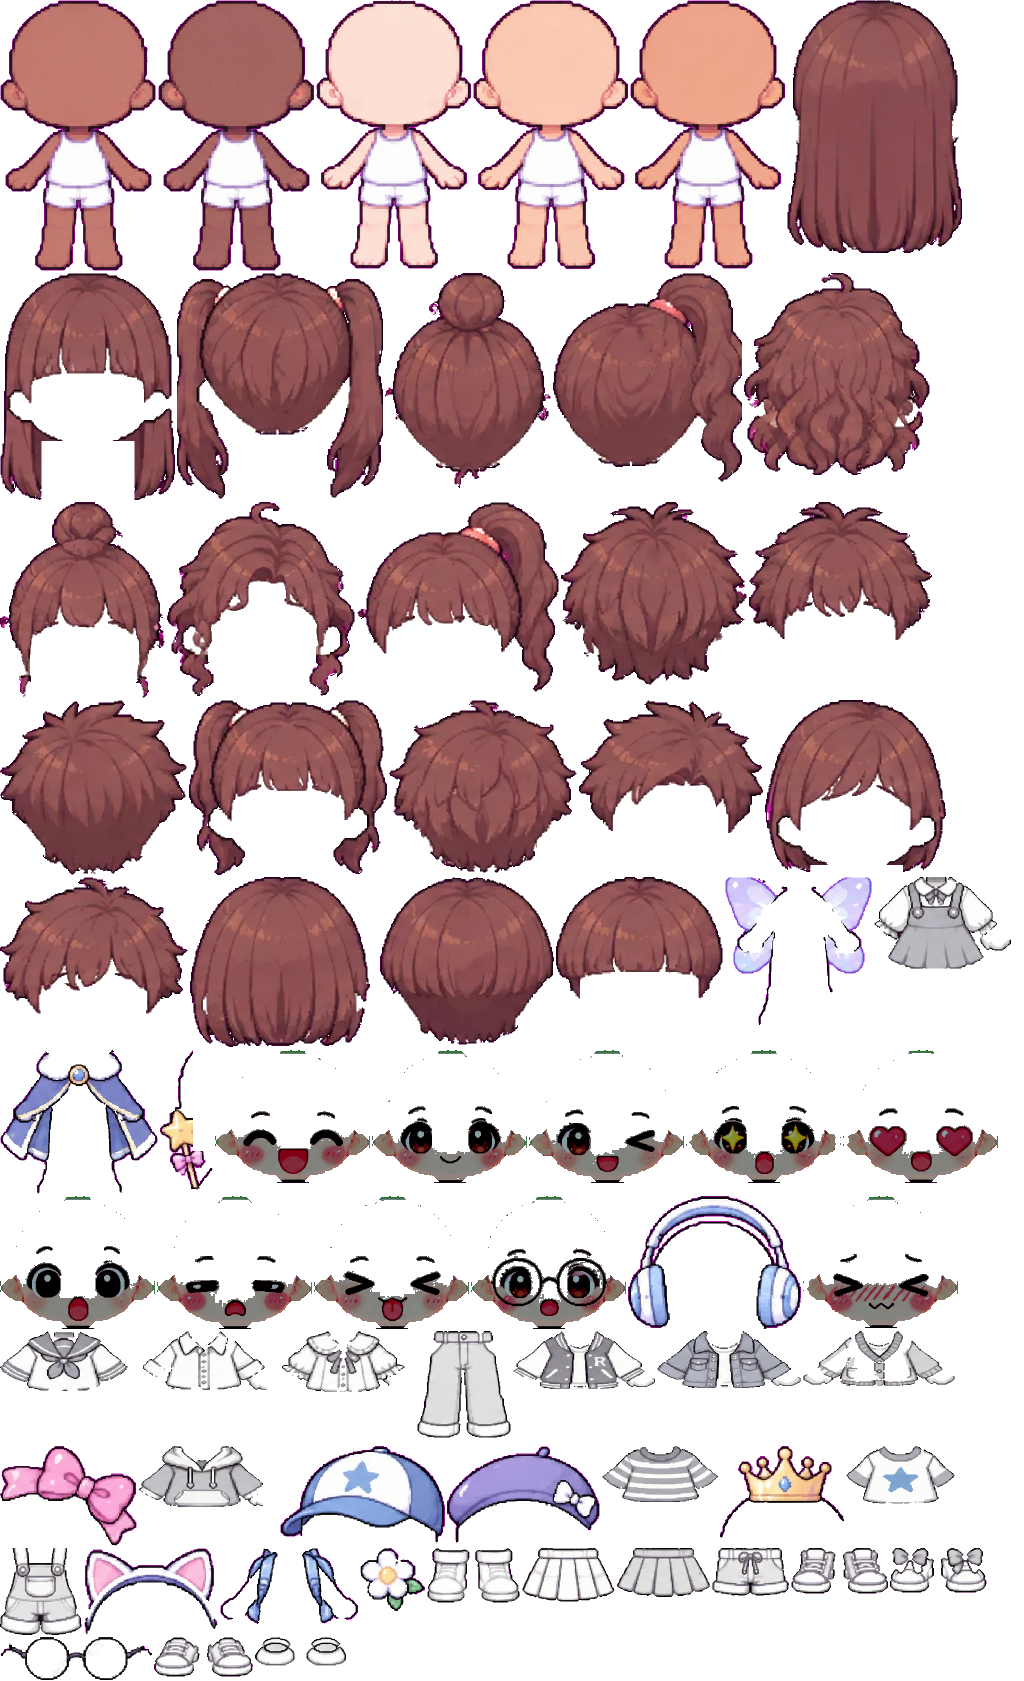
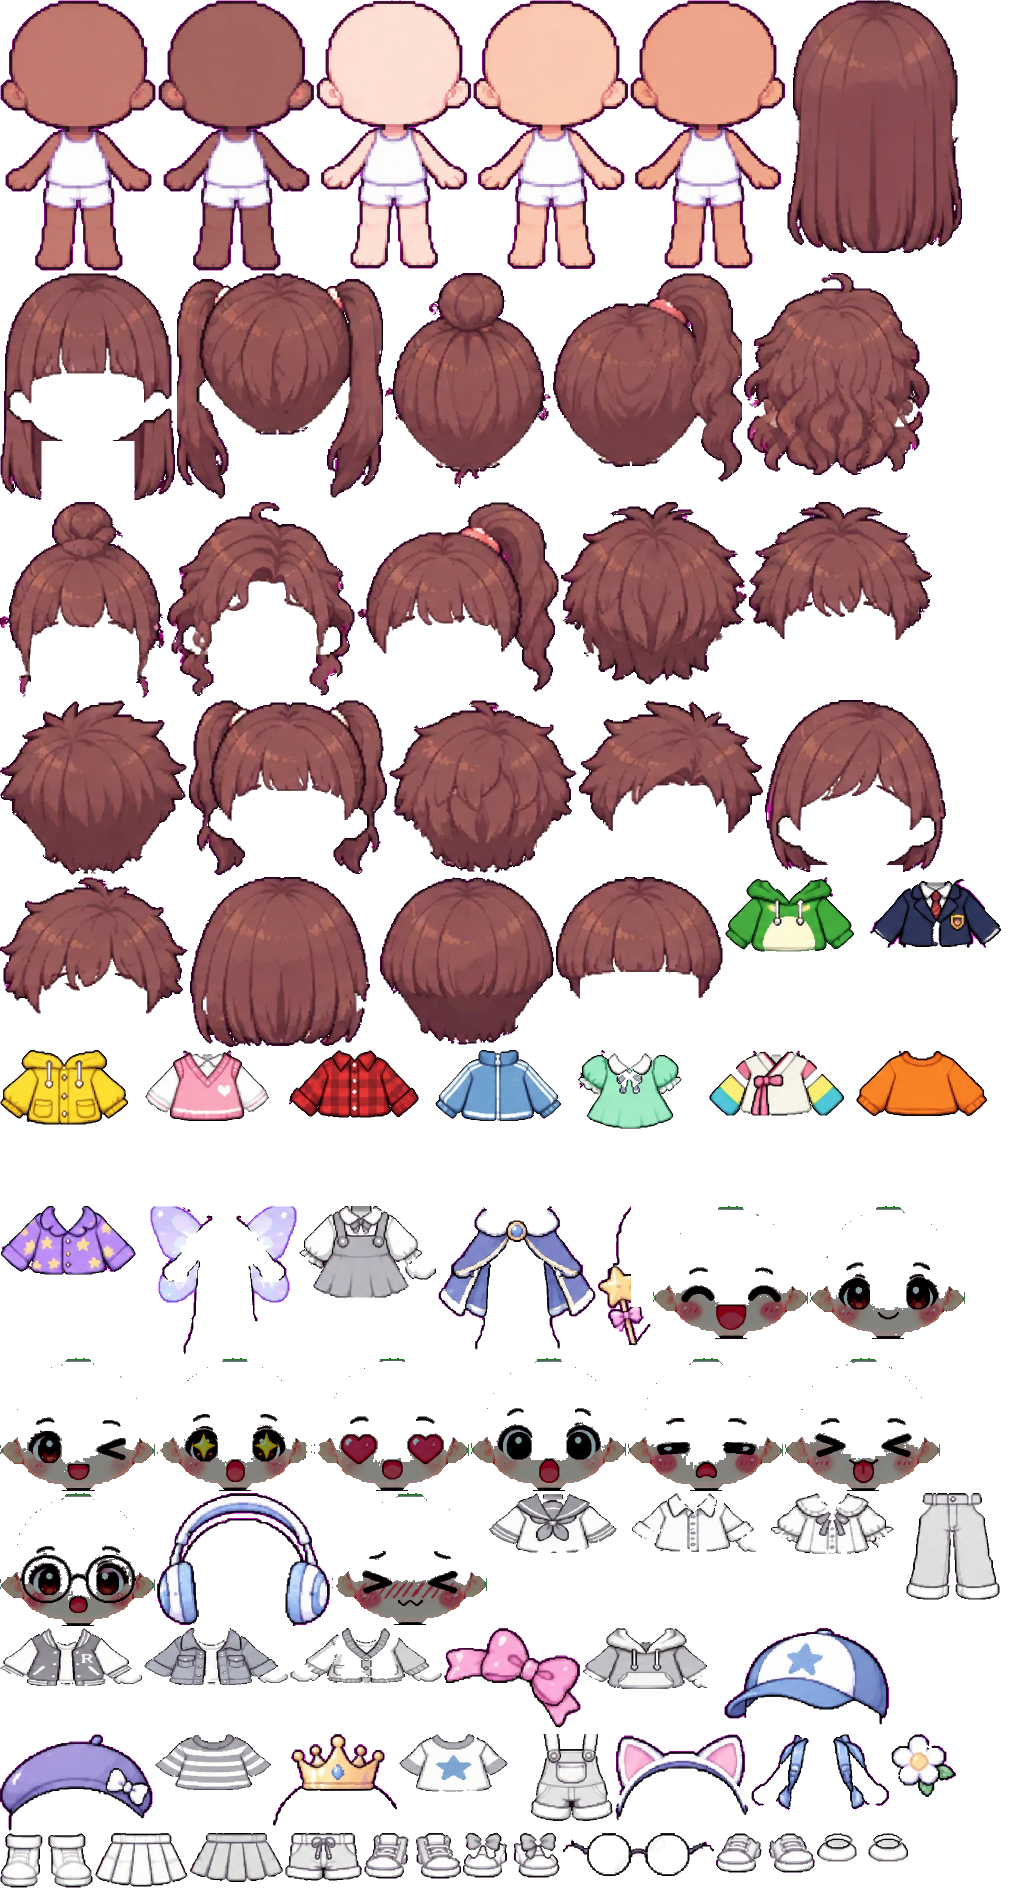
꼬마 탐험대: 윗옷 10가지 추가 (모두 20가지)
- 노란 비옷·공룡 후드티·빨간 체크 셔츠·분홍 니트 조끼·파란 체육복·주황 맨투맨·한복 저고리·별 파자마·교복 재킷·민트 블라우스
- 색이 칠해진 시트에서 회색 몸을 채워 나가 옷만 잘라 냄
- 5가지는 처음부터, 5가지는 열쇠 25~29개에 열림. sw v21, README

Claude-Session: https://claude.ai/code/session_01GaQn7MZBC3k4EEX7cEU7Dz

diff --git a/study/kkoma-park/chars.js b/study/kkoma-park/chars.js
@@ -7,7 +7,8 @@
 export const SKINS = ['아주 밝은 피부', '밝은 피부', '살구빛 피부', '갈색 피부', '진한 갈색 피부'];
 export const FACES = ['활짝 웃음', '방긋 미소', '윙크', '반짝 눈', '하트 눈', '깜짝', '심드렁', '메롱', '동글 안경', '부끄부끄'];
 export const HAIRS = ['부스스 머리', '덮은 머리', '삐죽 머리', '바가지 머리', '단발', '양 갈래', '옆 포니테일', '똥 머리', '곱슬 머리', '긴 생머리'];
-export const TOPS = ['별 티셔츠', '후드티', '셔츠', '세일러 옷', '블라우스', '줄무늬 티', '야구 점퍼', '청재킷', '카디건', '멜빵 원피스'];
+export const TOPS = ['별 티셔츠', '후드티', '셔츠', '세일러 옷', '블라우스', '줄무늬 티', '야구 점퍼', '청재킷', '카디건', '멜빵 원피스',
+  '노란 비옷', '공룡 후드티', '빨간 체크 셔츠', '분홍 니트 조끼', '파란 체육복', '주황 맨투맨', '한복 저고리', '별 파자마', '교복 재킷', '민트 블라우스'];
 export const BOTTOMS = ['반바지', '긴바지', '주름치마', '미니 스커트', '멜빵 반바지'];
 export const SHOES = ['운동화', '하이탑', '구두', '장화', '리본 운동화'];
 // 소품: [이름, 자리]. 같은 자리에는 하나만 달 수 있다
@@ -18,7 +19,7 @@ export const ACCS = [
 export const SLOTS = ['hat', 'pin', 'eye', 'back', 'hand'];
 // 부품마다 정해진 색 (null = 그림 원래 색). 색을 따로 고르지 않고, 색이 입혀진 완성 그림을 고른다
 const HAIR_COLORS = [null, '#2b211e', '#c0703a', '#3a2620', '#f0c85f', '#f2a7c0', null, '#2b211e', '#8a6fe0', '#c0703a'];
-const TOP_COLORS = [null, '#ff9ccf', '#8cc8ff', null, '#ffc9dc', '#6fb6ff', '#5f7fe0', '#7fa8e0', '#ffe07a', '#b79cff'];
+const TOP_COLORS = [null, '#ff9ccf', '#8cc8ff', null, '#ffc9dc', '#6fb6ff', '#5f7fe0', '#7fa8e0', '#ffe07a', '#b79cff', null, null, null, null, null, null, null, null, null, null];
 const BOT_COLORS = ['#5f7fe0', '#4a5a8a', '#ff9ccf', '#b79cff', '#7fa8e0'];
 const SHOE_COLORS = [null, '#e0565b', '#7a4a36', '#ffd24a', '#ff9ccf'];
 const COLORS = { hair: HAIR_COLORS, top: TOP_COLORS, bot: BOT_COLORS, shoe: SHOE_COLORS };
@@ -44,6 +45,7 @@ const UNLOCK_ORDER = [
   ['hair', 6], ['top', 6], ['acc', 4], ['face', 6], ['shoe', 3], ['acc', 3], ['hair', 7], ['top', 7], ['bot', 3], ['acc', 11],
   ['face', 7], ['acc', 7], ['hair', 8], ['top', 8], ['shoe', 4], ['face', 8], ['acc', 10], ['bot', 4], ['hair', 9], ['top', 9],
   ['face', 9], ['acc', 9], ['acc', 8], ['acc', 2],
+  ['top', 11], ['top', 16], ['top', 13], ['top', 17], ['top', 18],
 ];
 export const partNeed = (kind, i) => { const k = UNLOCK_ORDER.findIndex(([a, b]) => a === kind && b === i); return k < 0 ? 0 : k + 1; };
 export const partOpen = (kind, i, keys) => partNeed(kind, i) <= keys;

diff --git a/study/kkoma-park/sw.js b/study/kkoma-park/sw.js
@@ -1,7 +1,7 @@
 // 앱 파일을 기기에 담아 두어 인터넷이 없어도 열리게 한다.
 // 3D 엔진·연결 프로그램·주아체 글꼴은 vendor/ 에 있다. 글꼴 조각과 튼튼 운동장의 몸 인식 엔진은 처음 쓸 때 담아 둔다.
 const PREFIX = 'yeolsoe-';
-const CACHE = `${PREFIX}v20`;
+const CACHE = `${PREFIX}v21`;
 const FILES = [
   './',
   './index.html',

diff --git a/study/kkoma-park/README.md b/study/kkoma-park/README.md
@@ -7,13 +7,13 @@
 
 ## 어떻게 놀아요?
 
-1. 별명과 학년을 고르고, **나만의 픽셀아트 캐릭터를 만들어요**: 피부색 5 · 얼굴 표정 10 · 머리 스타일 10 · 윗옷 10 · 아래옷 5 · 신발 5 · 모자와 소품 12 가지를 골라 입혀요. 옷과 머리는 저마다 색이 입혀진 완성 그림이에요 (같이 다니는 친구·직업 배지도 골라요). 캐릭터를 누르면 앞·옆·뒷모습을 볼 수 있고, 마을에서는 걷는 방향에 따라 옆모습·뒷모습이 돼요.
+1. 별명과 학년을 고르고, **나만의 픽셀아트 캐릭터를 만들어요**: 피부색 5 · 얼굴 표정 10 · 머리 스타일 10 · 윗옷 20 · 아래옷 5 · 신발 5 · 모자와 소품 12 가지를 골라 입혀요. 옷과 머리는 저마다 색이 입혀진 완성 그림이에요 (같이 다니는 친구·직업 배지도 골라요). 캐릭터를 누르면 앞·옆·뒷모습을 볼 수 있고, 마을에서는 걷는 방향에 따라 옆모습·뒷모습이 돼요.
 2. 가운데 **분수 광장 섬**에서 출발해 나무다리를 건너 각 섬으로 가요. 반짝이는 문으로 들어가면 건물 안 놀이방에서 동물 친구가 반겨 줘요. 오른쪽 위 **작은 지도**에서 건물 그림을 누르면 그 건물 앞으로 바로 가요.
 3. 놀이방마다 **보물 상자 3개**의 문제를 풀면 🗝 **열쇠**가 나타나요.
    - 처음 깬 건물은 **탐험 수첩에 도장**이 찍혀요.
    - 깬 건물에 다시 들어가면 **새 문제**가 나오고, 또 깨면 열쇠를 또 받아요.
 4. 어느 건물이든 **도장 10개**를 모으면 분수 광장 옆 언덕의 **🎈 열기구 탈출장**이 열려요. 상자 4개에서 비밀번호 숫자를 찾으면 열기구를 타고 날아올라요!
-5. 열쇠를 하나 모을 때마다 **새 꾸미기 부품**(머리·옷·표정·왕관·날개·망토 같은 소품)이 하나씩 열리고 (모두 24개), 열쇠 수에 따라 **같이 다니는 친구**도 열려요 (🐥 병아리 1개 · 🐶 강아지 4 · 🐱 고양이 7 · 🐢 거북이 12 · 🐉 아기 용 18).
+5. 열쇠를 하나 모을 때마다 **새 꾸미기 부품**(머리·옷·표정·왕관·날개·망토 같은 소품)이 하나씩 열리고 (모두 29개), 열쇠 수에 따라 **같이 다니는 친구**도 열려요 (🐥 병아리 1개 · 🐶 강아지 4 · 🐱 고양이 7 · 🐢 거북이 12 · 🐉 아기 용 18).
 
 | 섬 · 건물 | 과목 | 퍼즐 |
 | --- | --- | --- |
